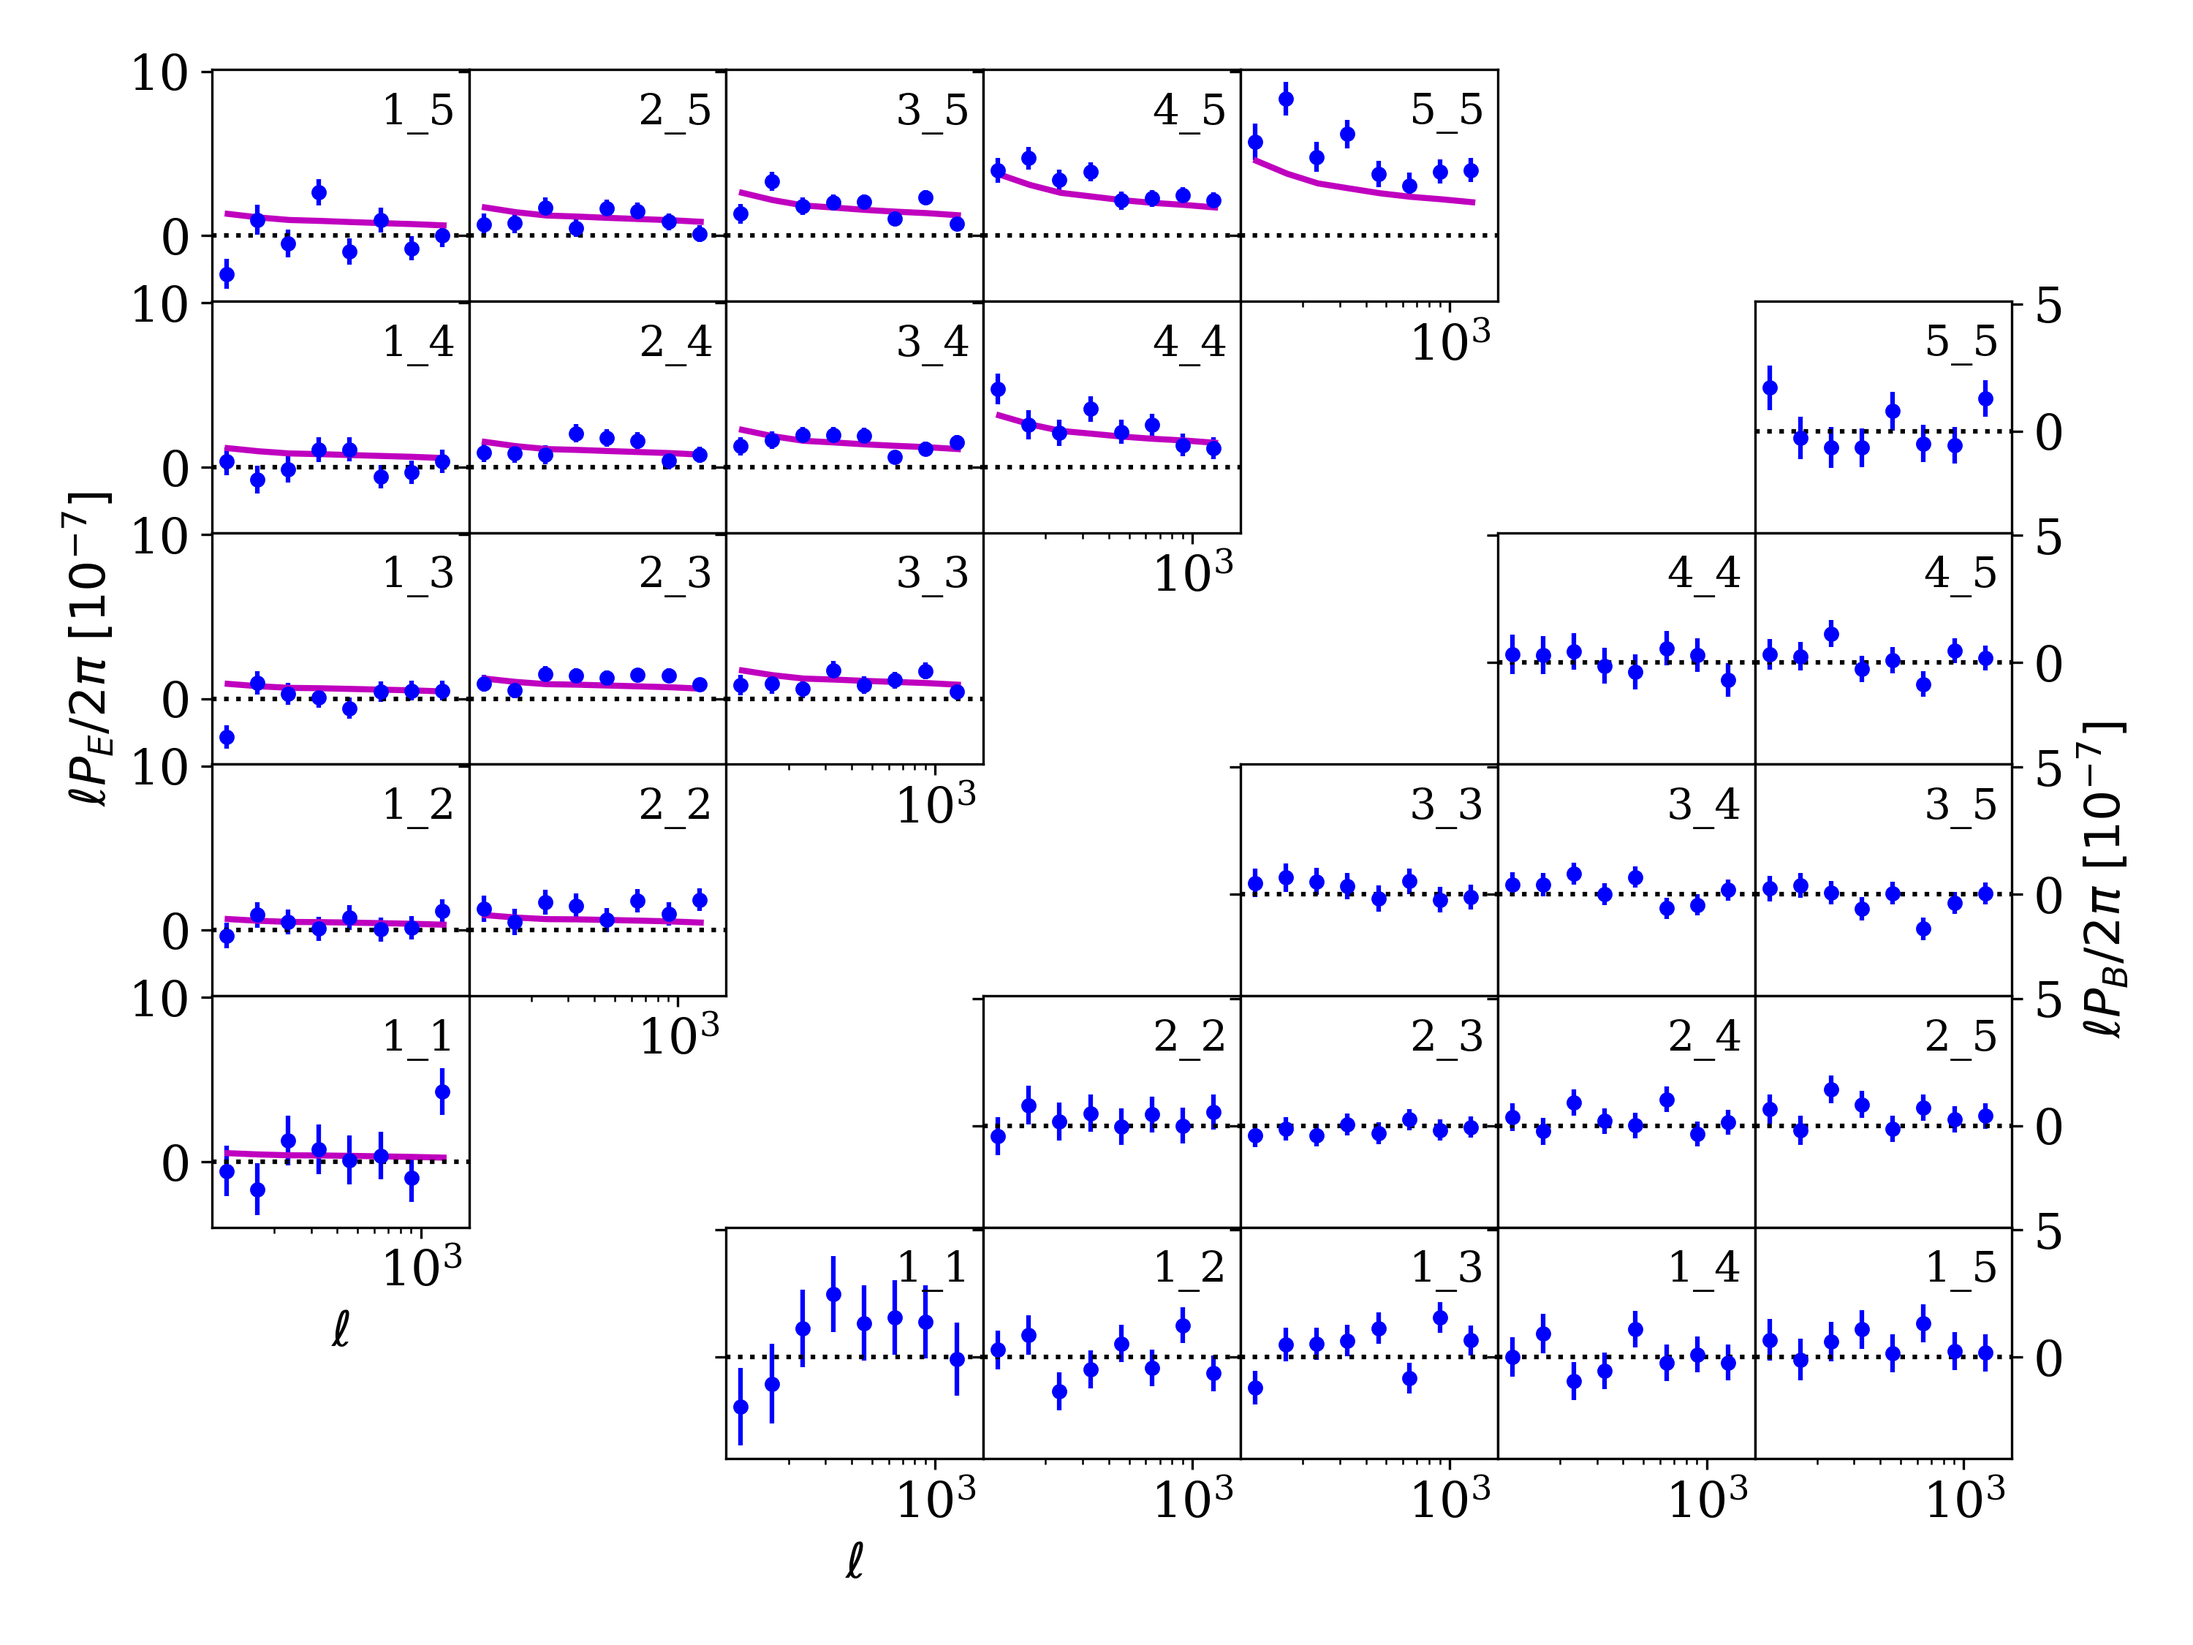
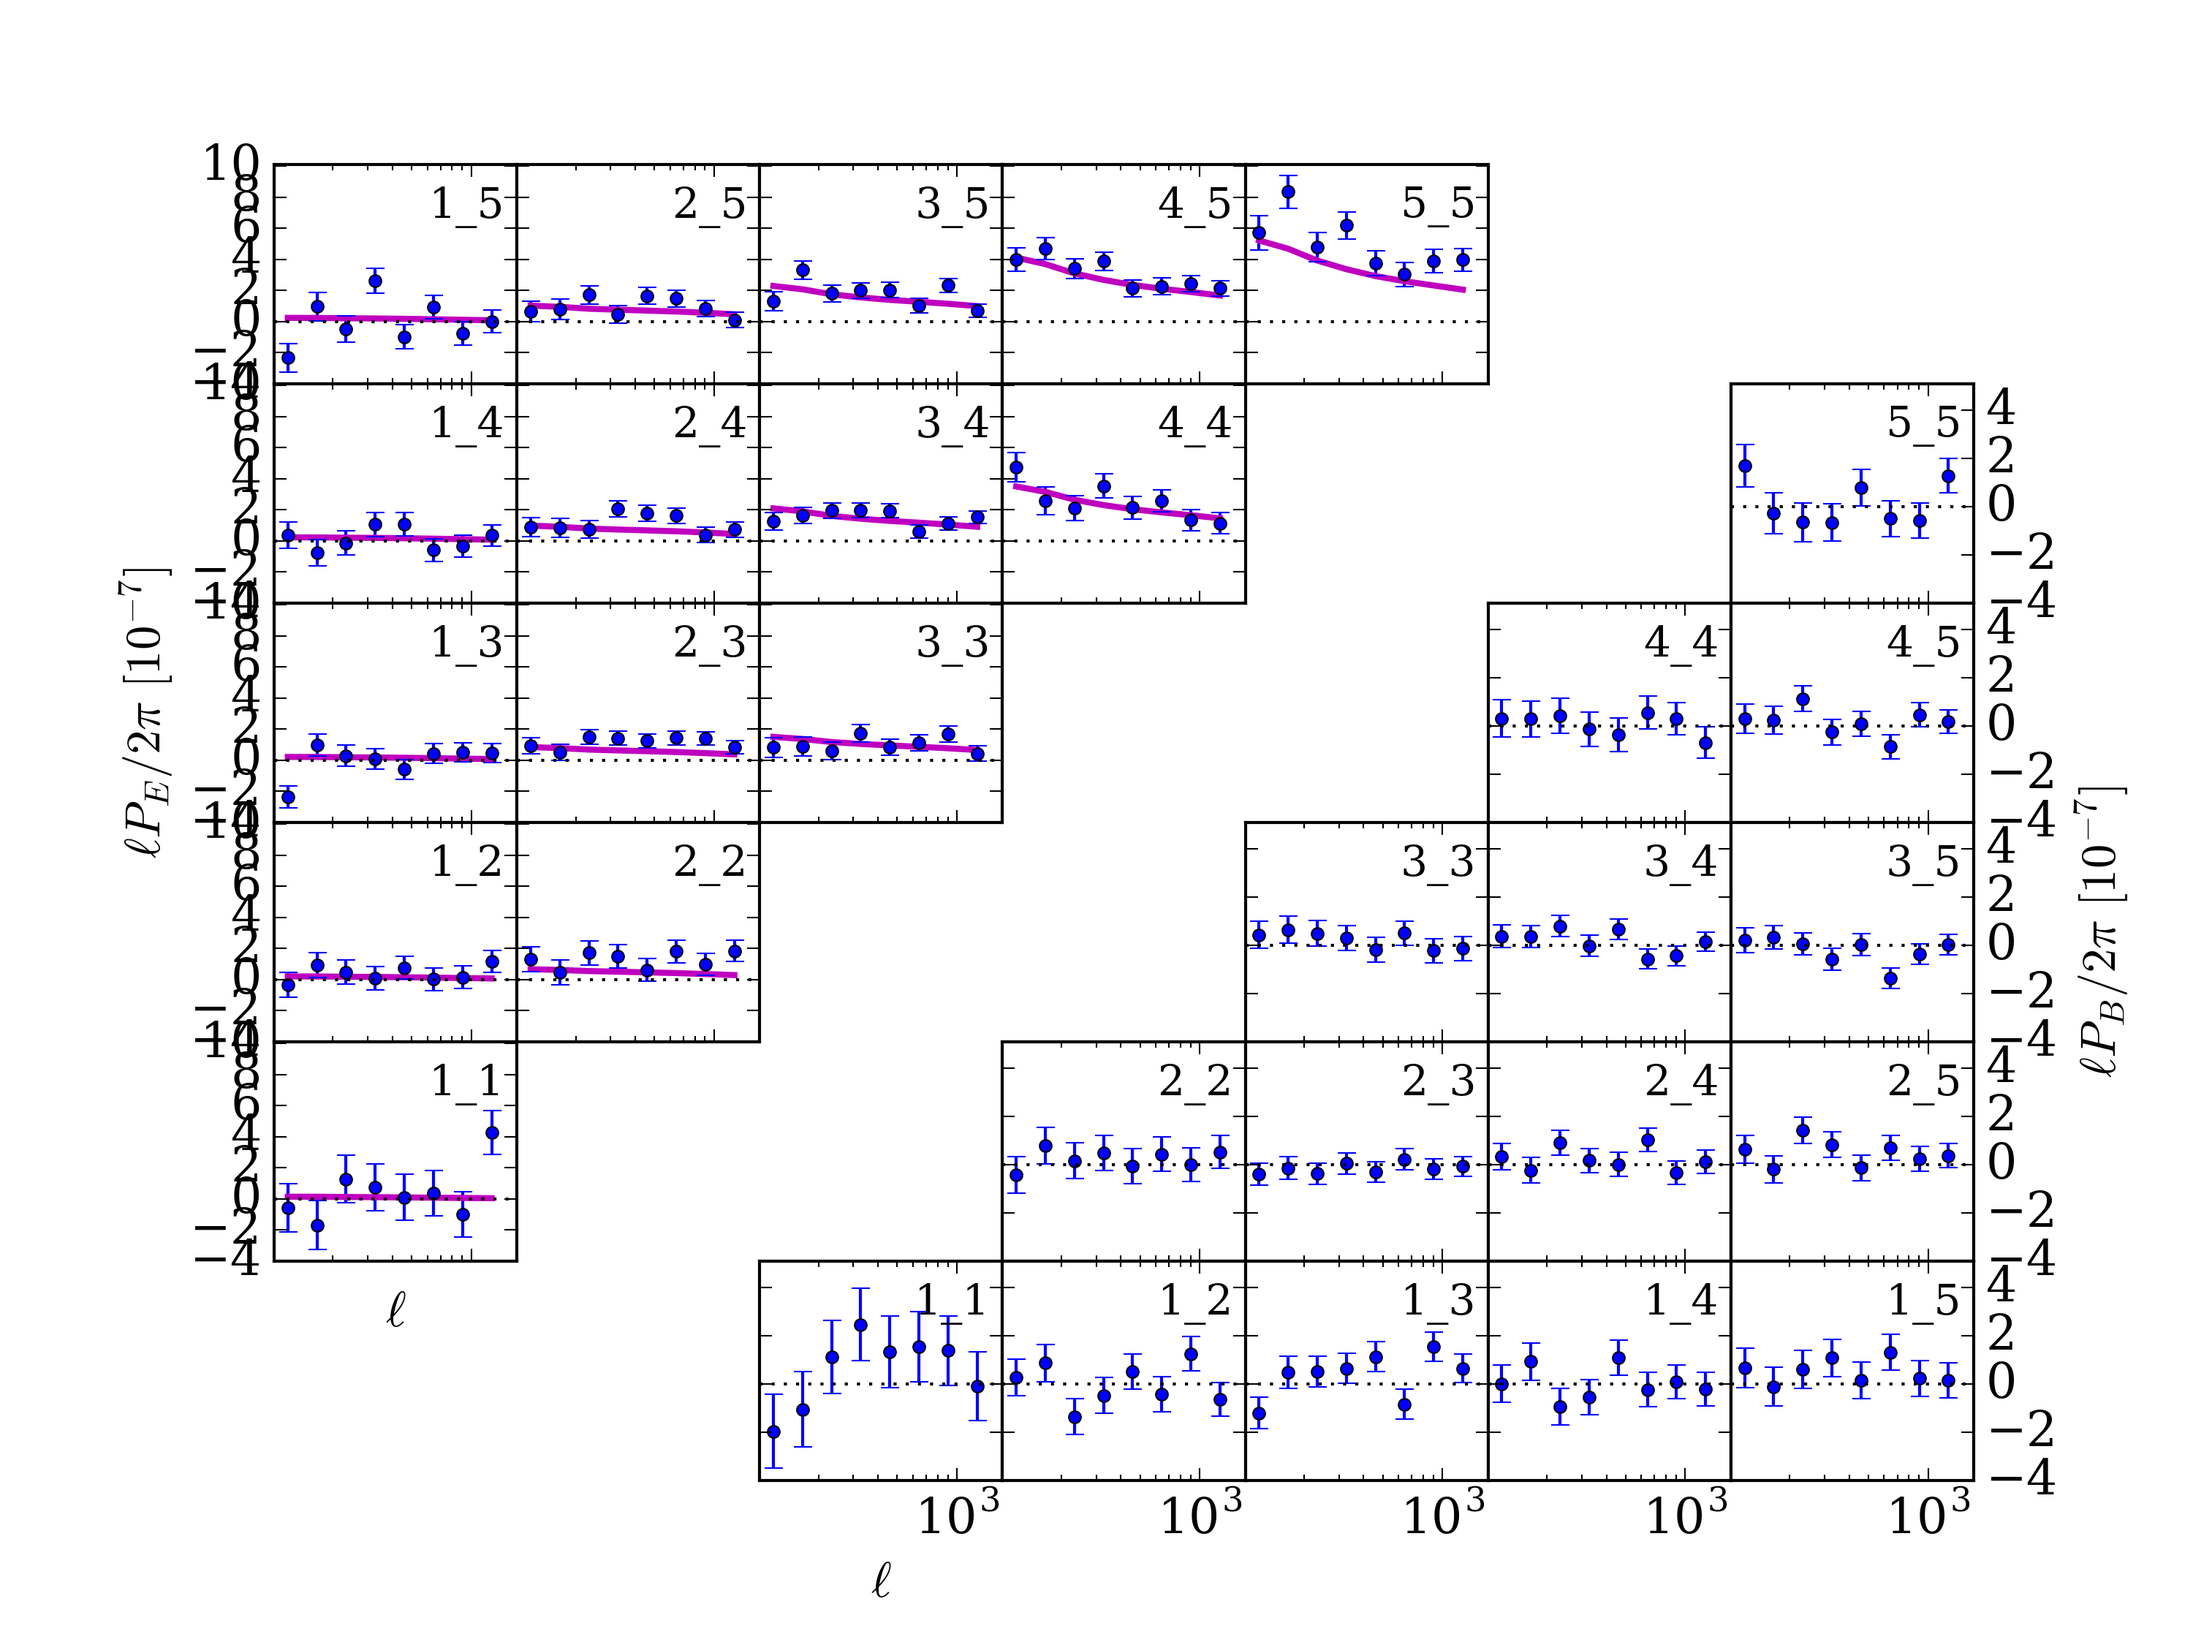
updated to new Predictions curves

diff --git a/Data_Plots/Pkk/plot_Pkk_bandpowers.py b/Data_Plots/Pkk/plot_Pkk_bandpowers.py
@@ -61,7 +61,8 @@ filetail='nbins_8_Ell_100.0_1500.0_zbins'
 # theory curves
 #read in the expectation value for the Emode cosmic shear signal
 #MD='/home/cech/KiDSLenS/Cat_to_Obs_K1000_P1/'
-MD='/Users/macleod/CH_work/Cat_to_Obs_K1000_P1/'
+#MD='/Users/macleod/CH_work/Cat_to_Obs_K1000_P1/'
+MD='/Users/heymans/KiDS/Cat_to_Obs_K1000_P1/'
 
 #Set the x/y limits
 xmin=101
@@ -96,10 +97,15 @@ for iz in range(1,ntomobin+1):
         Bdiagerr=np.sqrt(np.diagonal(Bcov_izjz))
 
         # and read in the expected bandpower_shear_e are l^2 Cl_E/2pi
-        BPtheory=np.loadtxt('%s/ForBG/outputs/test_output_S8_fid_test/bandpower_shear_e/bin_%d_%d.txt'%(MD,jz,iz))
-        ellmin=np.loadtxt('%s/ForBG/outputs/test_output_S8_fid_test/bandpower_shear_e/l_min_vec.txt'%(MD))
-        ellmax=np.loadtxt('%s/ForBG/outputs/test_output_S8_fid_test/bandpower_shear_e/l_max_vec.txt'%(MD))
-        elltheory = (ellmax+ellmin)*0.5
+        #BPtheory=np.loadtxt('%s/ForBG/outputs/test_output_S8_fid_test/bandpower_shear_e/bin_%d_%d.txt'%(MD,jz,iz))
+        #ellmin=np.loadtxt('%s/ForBG/outputs/test_output_S8_fid_test/bandpower_shear_e/l_min_vec.txt'%(MD))
+        #ellmax=np.loadtxt('%s/ForBG/outputs/test_output_S8_fid_test/bandpower_shear_e/l_max_vec.txt'%(MD))
+        #elltheory = (ellmax+ellmin)*0.5
+        
+        BPtheory=np.loadtxt('%s/Predictions/KiDS_BOSS_test_A/bandpower_shear_e/bin_%d_%d.txt'%(MD,jz,iz))
+        ellmin=np.loadtxt('%s/Predictions/KiDS_BOSS_test_A/bandpower_shear_e/l_min_vec.txt'%(MD))
+        ellmax=np.loadtxt('%s/Predictions/KiDS_BOSS_test_A/bandpower_shear_e/l_max_vec.txt'%(MD))
+        elltheory = ell #(ellmax+ellmin)*0.5
 
         #PLOT THE EMODES!
         #which grid cell do we want to plot this in?
@@ -184,7 +190,7 @@ for i in range(6):
     axes[i,blankgrid].set_visible(False)
     axes[i,blankgrid-1].set_visible(False)
 
-plt.tight_layout()
+#plt.tight_layout()
 
 outfile='Pkk_K1000_%s.png'%(LFVER)
 plt.savefig(outfile,dpi=300)
